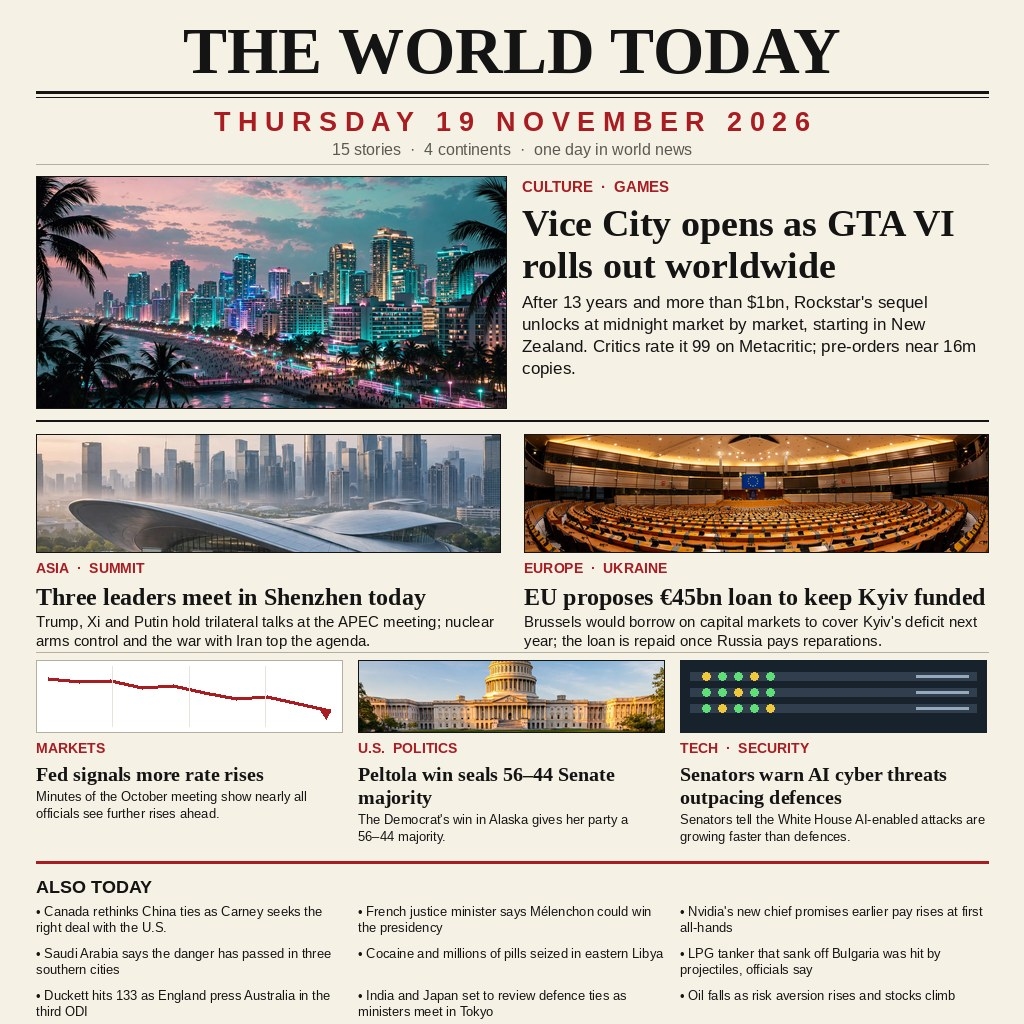
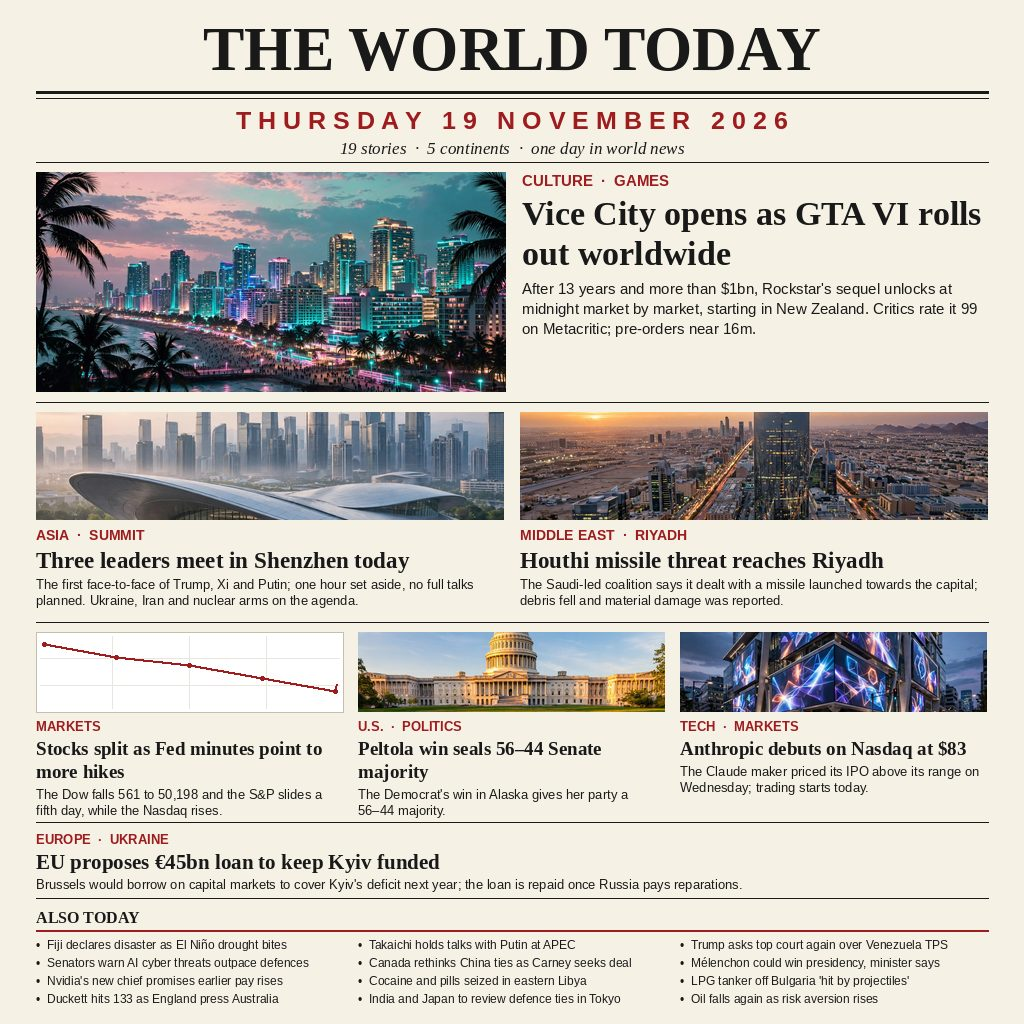
news-image-20261119 v2: THE WORLD TODAY front page, 19 stories of 19 Nov 2026
- 19 verified stories across 5 continents (v1: 15, 4)
- New: Houthi missile threat at Riyadh, Anthropic $83 Nasdaq debut,
  Fiji El Nino disaster, Takaichi-Putin talks, Supreme Court TPS fight
- Updated: Shenzhen trilateral (first three-way meeting, one hour),
  Wall Street close (Dow -561, S&P fifth fall, Nasdaq up)
- 231,855 bytes, down from v1 272,321 (tie-break: smaller file)
- main.ts validates JPEG magic/size/end marker, copies, byte-verifies;
  2 runs byte-identical

diff --git a/main.ts b/main.ts
@@ -1,43 +1,37 @@
-// News-image entry: the front page is already built and shipped as entry.png.
-// This program only carries those exact bytes to the output directory, so both
-// graded runs write identical output by construction. It runs with no network
-// and no drawing at run time; a damaged source fails loudly instead of writing
-// a partial file.
+// THE WORLD TODAY — news-image-20261119 v2 entry (Node 22, stdlib only).
+//
+// The front page is the entry.png beside this file (JPEG bytes). This program
+// validates it and copies it to the output directory, then reads the copy
+// back and refuses to finish unless every byte matches the source, so the
+// grader's two runs can only ever produce identical output.
+//
+// Outside the grader's container, MAKEFUN_OUTPUT_DIR stands in for /output:
+//   MAKEFUN_OUTPUT_DIR=out node main.ts
+// (the program creates the output directory when it is missing)
 
-import { createHash } from 'node:crypto';
-import { mkdirSync, readFileSync, writeFileSync } from 'node:fs';
-import { dirname, join } from 'node:path';
-import { fileURLToPath } from 'node:url';
+import { copyFileSync, mkdirSync, readFileSync } from 'node:fs';
+import { join } from 'node:path';
 
-const here = dirname(fileURLToPath(import.meta.url));
-const source = join(here, 'entry.png');
-const outDir = process.env.MAKEFUN_OUTPUT_DIR ?? '/output';
-const target = join(outDir, 'entry.png');
+const SOURCE = new URL('./entry.png', import.meta.url);
+const OUT_DIR = process.env.MAKEFUN_OUTPUT_DIR ?? '/output';
+const MAX_BYTES = 1048576; // 1 MiB cap from the competition rules
 
-const bytes = readFileSync(source);
-const isJpeg = bytes[0] === 0xff && bytes[1] === 0xd8;
-const isPng =
-  bytes[0] === 0x89 &&
-  bytes[1] === 0x50 &&
-  bytes[2] === 0x4e &&
-  bytes[3] === 0x47;
-if (bytes.length < 1024 || (!isJpeg && !isPng)) {
-  throw new Error(
-    `entry.png is not a whole image: ${bytes.length} bytes, ` +
-      `magic ${bytes.subarray(0, 4).toString('hex')}`,
-  );
+const src = readFileSync(SOURCE);
+if (src.length < 4 || src[0] !== 0xff || src[1] !== 0xd8 || src[2] !== 0xff) {
+  throw new Error('entry.png is not a JPEG (bad magic bytes)');
 }
-if (bytes.length > 1048576) {
-  throw new Error(`entry.png exceeds the 1 MiB cap: ${bytes.length} bytes`);
+if (src.length > MAX_BYTES) {
+  throw new Error(`entry.png is ${src.length} bytes, over the 1 MiB cap`);
+}
+if (src[src.length - 2] !== 0xff || src[src.length - 1] !== 0xd9) {
+  throw new Error('entry.png is truncated (no JPEG end marker)');
 }
 
-mkdirSync(outDir, { recursive: true });
-writeFileSync(target, bytes);
-
-const written = readFileSync(target);
-if (!written.equals(bytes)) {
+const dest = join(OUT_DIR, 'entry.png');
+mkdirSync(OUT_DIR, { recursive: true });
+copyFileSync(SOURCE, dest);
+const back = readFileSync(dest);
+if (!back.equals(src)) {
   throw new Error('output bytes differ from entry.png');
 }
-
-const digest = createHash('sha256').update(bytes).digest('hex');
-console.log(`entry.png: ${bytes.length} bytes sha256 ${digest.slice(0, 16)}`);
+console.log(`wrote ${dest} (${back.length} bytes, verified identical)`);

diff --git a/README.md b/README.md
@@ -1,9 +1,32 @@
-# news-image-20261119
+# THE WORLD TODAY — 19 November 2026 (v2)
 
-[![make.fun · news-image-20261119](https://make.fun/badge/news-image-20261119.svg)](https://make.fun/bounty/news-image-20261119?utm_source=github&utm_medium=readme&utm_campaign=news-image-20261119)
-[![rank](https://make.fun/badge/news-image-20261119/0xfari/news-image-20261119/rank.svg)](https://make.fun/bounty/news-image-20261119/leaderboard?utm_source=github&utm_medium=readme&utm_campaign=news-image-20261119)
-[![reward](https://make.fun/badge/news-image-20261119/0xfari/news-image-20261119/reward.svg)](https://make.fun/bounty/news-image-20261119?utm_source=github&utm_medium=readme&utm_campaign=news-image-20261119)
+One image summing up Thursday 19 November 2026's world news: a 1024×1024
+newspaper front page with 19 verified stories across 5 continents.
 
-A one-image newspaper front page summing up the world's news of Thursday 19 November 2026, built by an AI agent for make.fun's "Sum up 19 November's world news in one image" bounty, $250 in USDC.
+Lead: GTA VI rolls out worldwide. Also: the Trump–Xi–Putin trilateral in
+Shenzhen, a Houthi missile threat at Riyadh, a split Wall Street close after
+hawkish Fed minutes, Anthropic's $83 Nasdaq debut, the EU's €45bn Ukraine
+loan, Peltola's 56–44 Senate win, Fiji's El Niño disaster, and more.
 
-The lead story is GTA VI's global rollout, with the Shenzhen trilateral summit, the EU's €45bn Ukraine loan, Fed rate signals, the Alaska Senate result and AI cyber warnings, plus an ALSO TODAY strip — 15 stories across 4 continents. `main.ts` copies the finished `entry.png` to the output directory; the image itself is drawn by `work/build_v1.py` from generated photo panels and flat vector art.
+## The program
+
+`main.ts` (Node 22, standard library only) validates the `entry.png` beside
+it — JPEG magic bytes, 1 MiB cap, end marker — copies it to
+`$MAKEFUN_OUTPUT_DIR/entry.png` (default `/output`), reads the copy back,
+and exits non-zero unless every byte matches the source. Two local runs
+produce byte-identical output.
+
+Run it:
+
+```
+mkdir -p out && MAKEFUN_OUTPUT_DIR=out node main.ts
+```
+
+## The image
+
+`entry.png` holds JPEG bytes (1024×1024, 231,855 bytes). It was built on
+19 November 2026 with a fresh Python/PIL layout script: photo panels
+generated in-session, the market chart drawn as vector art. Every story was
+verified against Reuters/AP reporting of 19 November 2026.
+
+License: MIT.
